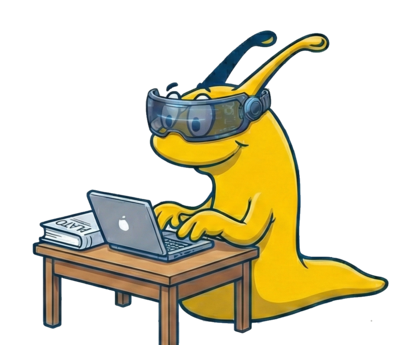
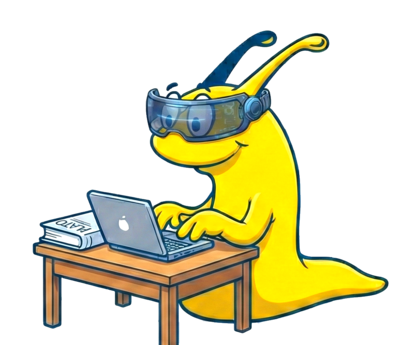
Add V-JEPA footer easter egg and enhance Sluggy images
- Add subtle footer disclaimer about Sluggy building world model vjepa style
- Clean up Sluggy images with stronger morphology (Disk:4)
- Boost image vibrancy (+30% saturation, +5 brightness, +10 contrast)
- Style footer-whisper class for inconspicuous display

w4ester & ai orchestration

diff --git a/index.html b/index.html
@@ -280,6 +280,7 @@ def learn_python(curiosity):
     <footer class="site-footer">
         <p>Built with the <strong>Producer Mindset</strong> 🚀</p>
         <p class="footer-note">No data leaves your browser. Everything runs locally.</p>
+        <p class="footer-whisper">sluggy is building a world model <a href="https://ai.meta.com/blog/v-jepa-yann-lecun-ai-model-video-joint-embedding-predictive-architecture/" target="_blank" rel="noopener">vjepa style</a> (hence the visor) 😉</p>
     </footer>
 
     <script src="https://cdnjs.cloudflare.com/ajax/libs/prism/1.29.0/prism.min.js"></script>

diff --git a/css/styles.css b/css/styles.css
@@ -670,6 +670,24 @@ kbd {
     color: var(--color-text-muted);
 }
 
+.footer-whisper {
+    font-size: 0.55rem;
+    color: var(--color-text-muted);
+    opacity: 0.5;
+    margin-top: var(--space-lg);
+    letter-spacing: 0.02em;
+}
+
+.footer-whisper a {
+    color: inherit;
+    text-decoration: none;
+    border-bottom: 1px dotted currentColor;
+}
+
+.footer-whisper a:hover {
+    opacity: 1;
+}
+
 /* ===========================================
    Responsive
    =========================================== */
